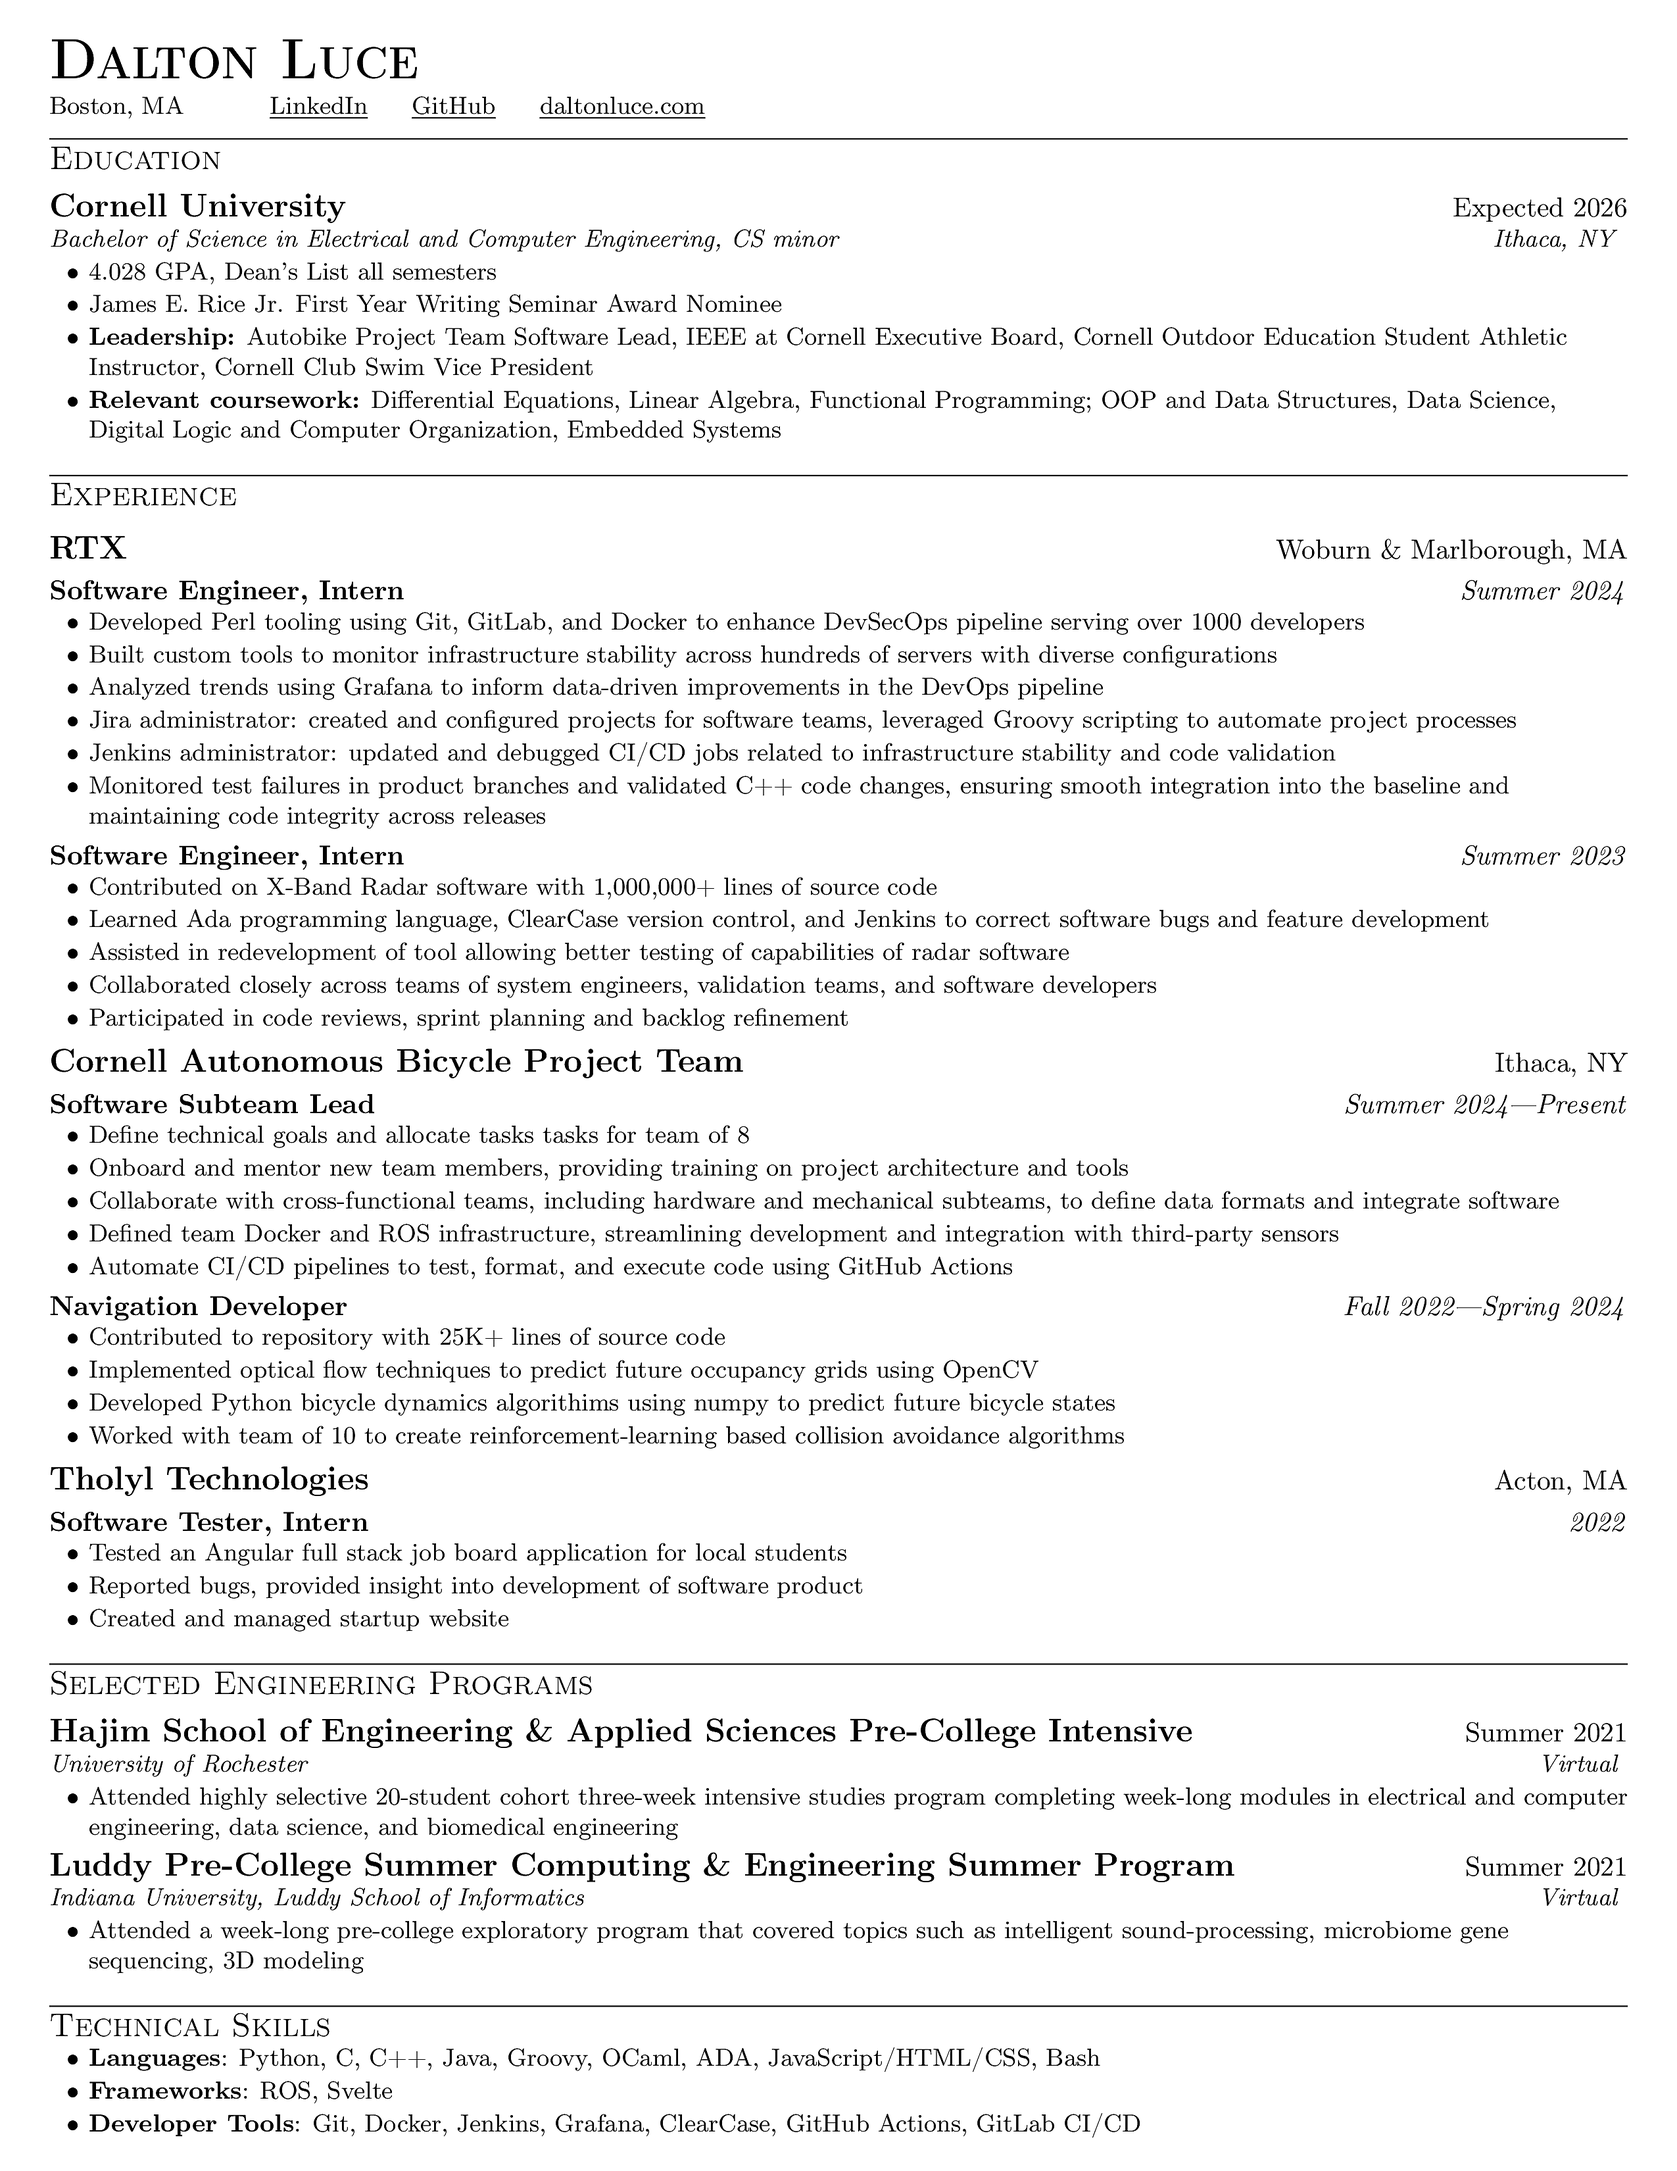
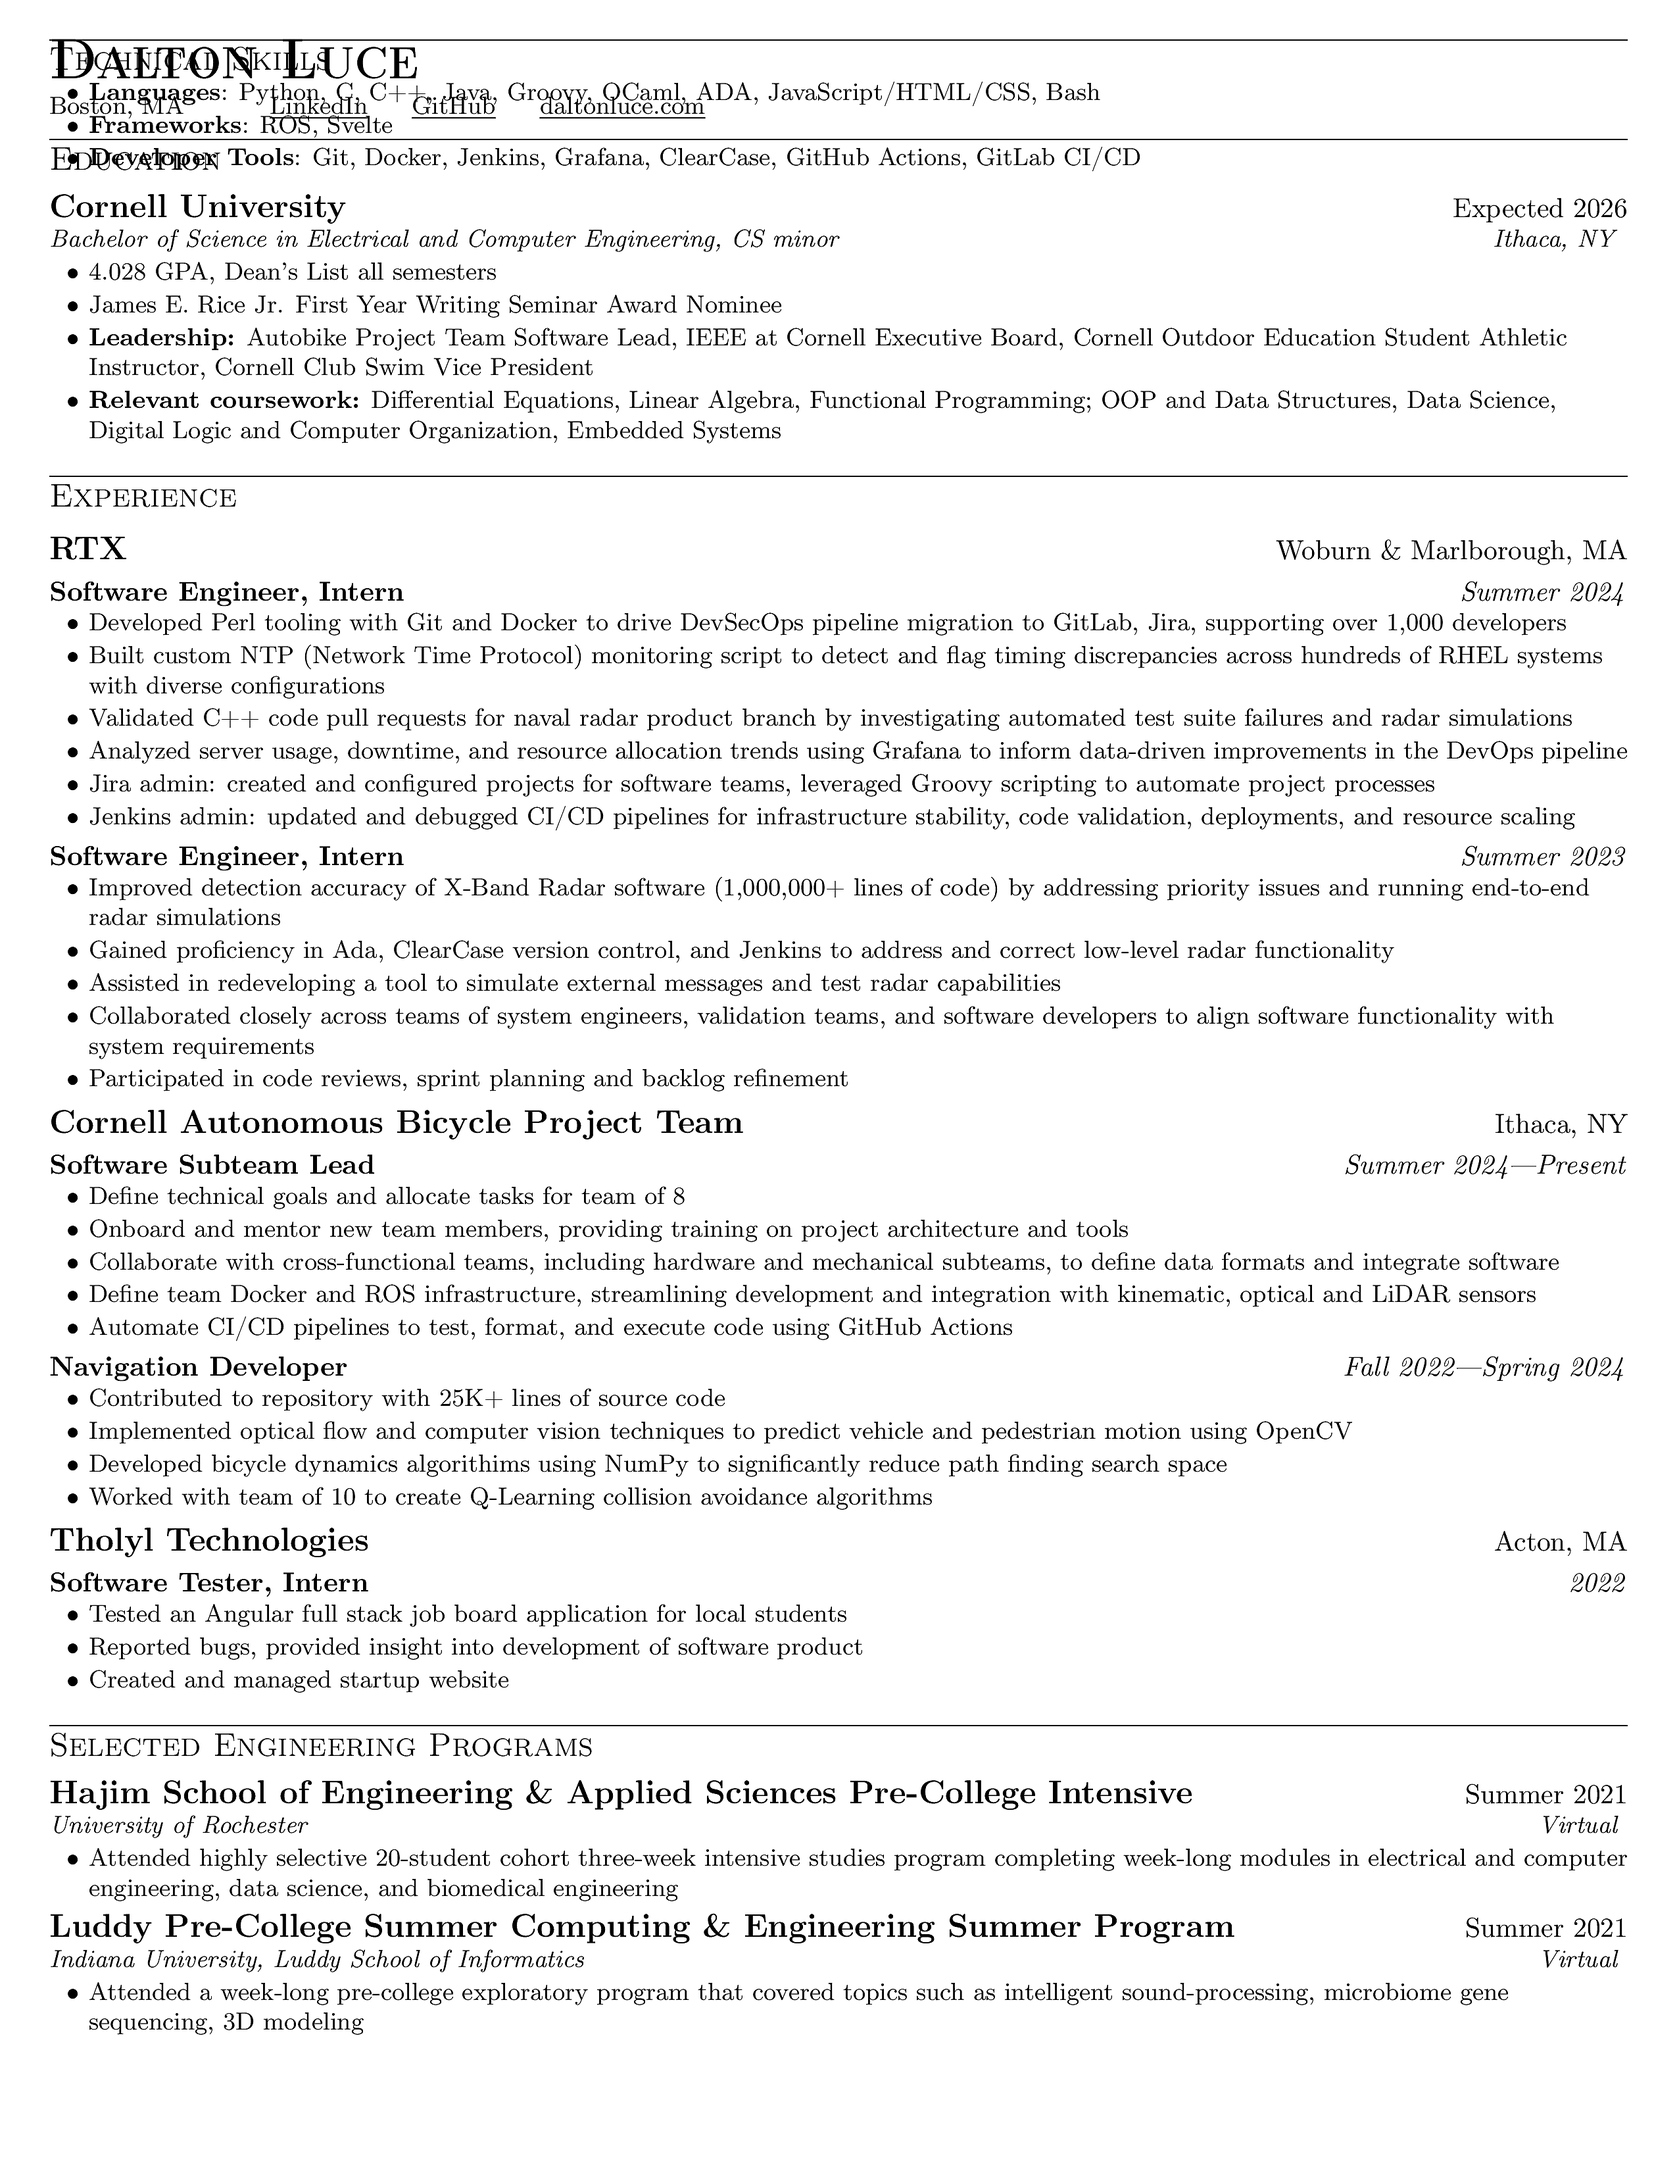
add more details

diff --git a/cv.tex b/cv.tex
@@ -168,20 +168,20 @@
 
     \position{Software Engineer, Intern}{Summer 2024}
     \itemsBegin{}
-        \item Developed Perl tooling using Git, GitLab, and Docker to enhance DevSecOps pipeline serving over 1000 developers
-        \item Built custom tools to monitor infrastructure stability across hundreds of servers with diverse configurations
-        \item Analyzed trends using Grafana to inform data-driven improvements in the DevOps pipeline
-        \item Jira administrator: created and configured projects for software teams, leveraged Groovy scripting to automate project processes
-        \item Jenkins administrator: updated and debugged CI/CD jobs related to infrastructure stability and code validation
-        \item Monitored test failures in product branches and validated C++ code changes, ensuring smooth integration into the baseline and maintaining code integrity across releases
+        \item Developed Perl tooling with Git and Docker to drive DevSecOps pipeline migration to GitLab, Jira, supporting over 1,000 developers
+        \item Built custom NTP (Network Time Protocol) monitoring script to detect and flag timing discrepancies across hundreds of RHEL systems with diverse configurations
+        \item Validated C++ code pull requests for naval radar product branch by investigating automated test suite failures and radar simulations
+        \item Analyzed server usage, downtime, and resource allocation trends using Grafana to inform data-driven improvements in the DevOps pipeline
+        \item Jira admin: created and configured projects for software teams, leveraged Groovy scripting to automate project processes
+        \item Jenkins admin: updated and debugged CI/CD pipelines for infrastructure stability, code validation, deployments, and resource scaling
     \itemsEnd{}
 
     \position{Software Engineer, Intern}{Summer 2023}
     \itemsBegin{}
-        \item Contributed on X-Band Radar software with 1,000,000+ lines of source code
-        \item Learned Ada programming language, ClearCase version control, and Jenkins to correct software bugs and feature development
-        \item Assisted in redevelopment of tool allowing better testing of capabilities of radar software
-        \item Collaborated closely across teams of system engineers, validation teams, and software developers
+        \item Improved detection accuracy of X-Band Radar software (1,000,000+ lines of code) by addressing priority issues and running end-to-end radar simulations
+        \item Gained proficiency in Ada, ClearCase version control, and Jenkins to address and correct low-level radar functionality
+        \item Assisted in redeveloping a tool to simulate external messages and test radar capabilities
+        \item Collaborated closely across teams of system engineers, validation teams, and software developers to align software functionality with system requirements
         \item Participated in code reviews, sprint planning and backlog refinement
     \itemsEnd{}
 
@@ -190,19 +190,19 @@
 
     \position{Software Subteam Lead}{Summer 2024---Present}
     \itemsBegin{}
-        \item Define technical goals and allocate tasks tasks for team of 8
+        \item Define technical goals and allocate tasks for team of 8
         \item Onboard and mentor new team members, providing training on project architecture and tools
         \item Collaborate with cross-functional teams, including hardware and mechanical subteams, to define data formats and integrate software
-        \item Defined team Docker and ROS infrastructure, streamlining development and integration with third-party sensors
+        \item Define team Docker and ROS infrastructure, streamlining development and integration with kinematic, optical and LiDAR sensors
         \item Automate CI/CD pipelines to test, format, and execute code using GitHub Actions
     \itemsEnd{}
 
     \position{Navigation Developer}{Fall 2022---Spring 2024}
     \itemsBegin{}
         \item Contributed to repository with 25K+ lines of source code
-        \item Implemented optical flow techniques to predict future occupancy grids using OpenCV
-        \item Developed Python bicycle dynamics algorithims using numpy to predict future bicycle states
-        \item Worked with team of 10 to create reinforcement-learning based collision avoidance algorithms
+        \item Implemented optical flow and computer vision techniques to predict vehicle and pedestrian motion using OpenCV
+        \item Developed bicycle dynamics algorithims using NumPy to significantly reduce path finding search space
+        \item Worked with team of 10 to create Q-Learning collision avoidance algorithms
     \itemsEnd{}
 
     %--------Tholyl--------
